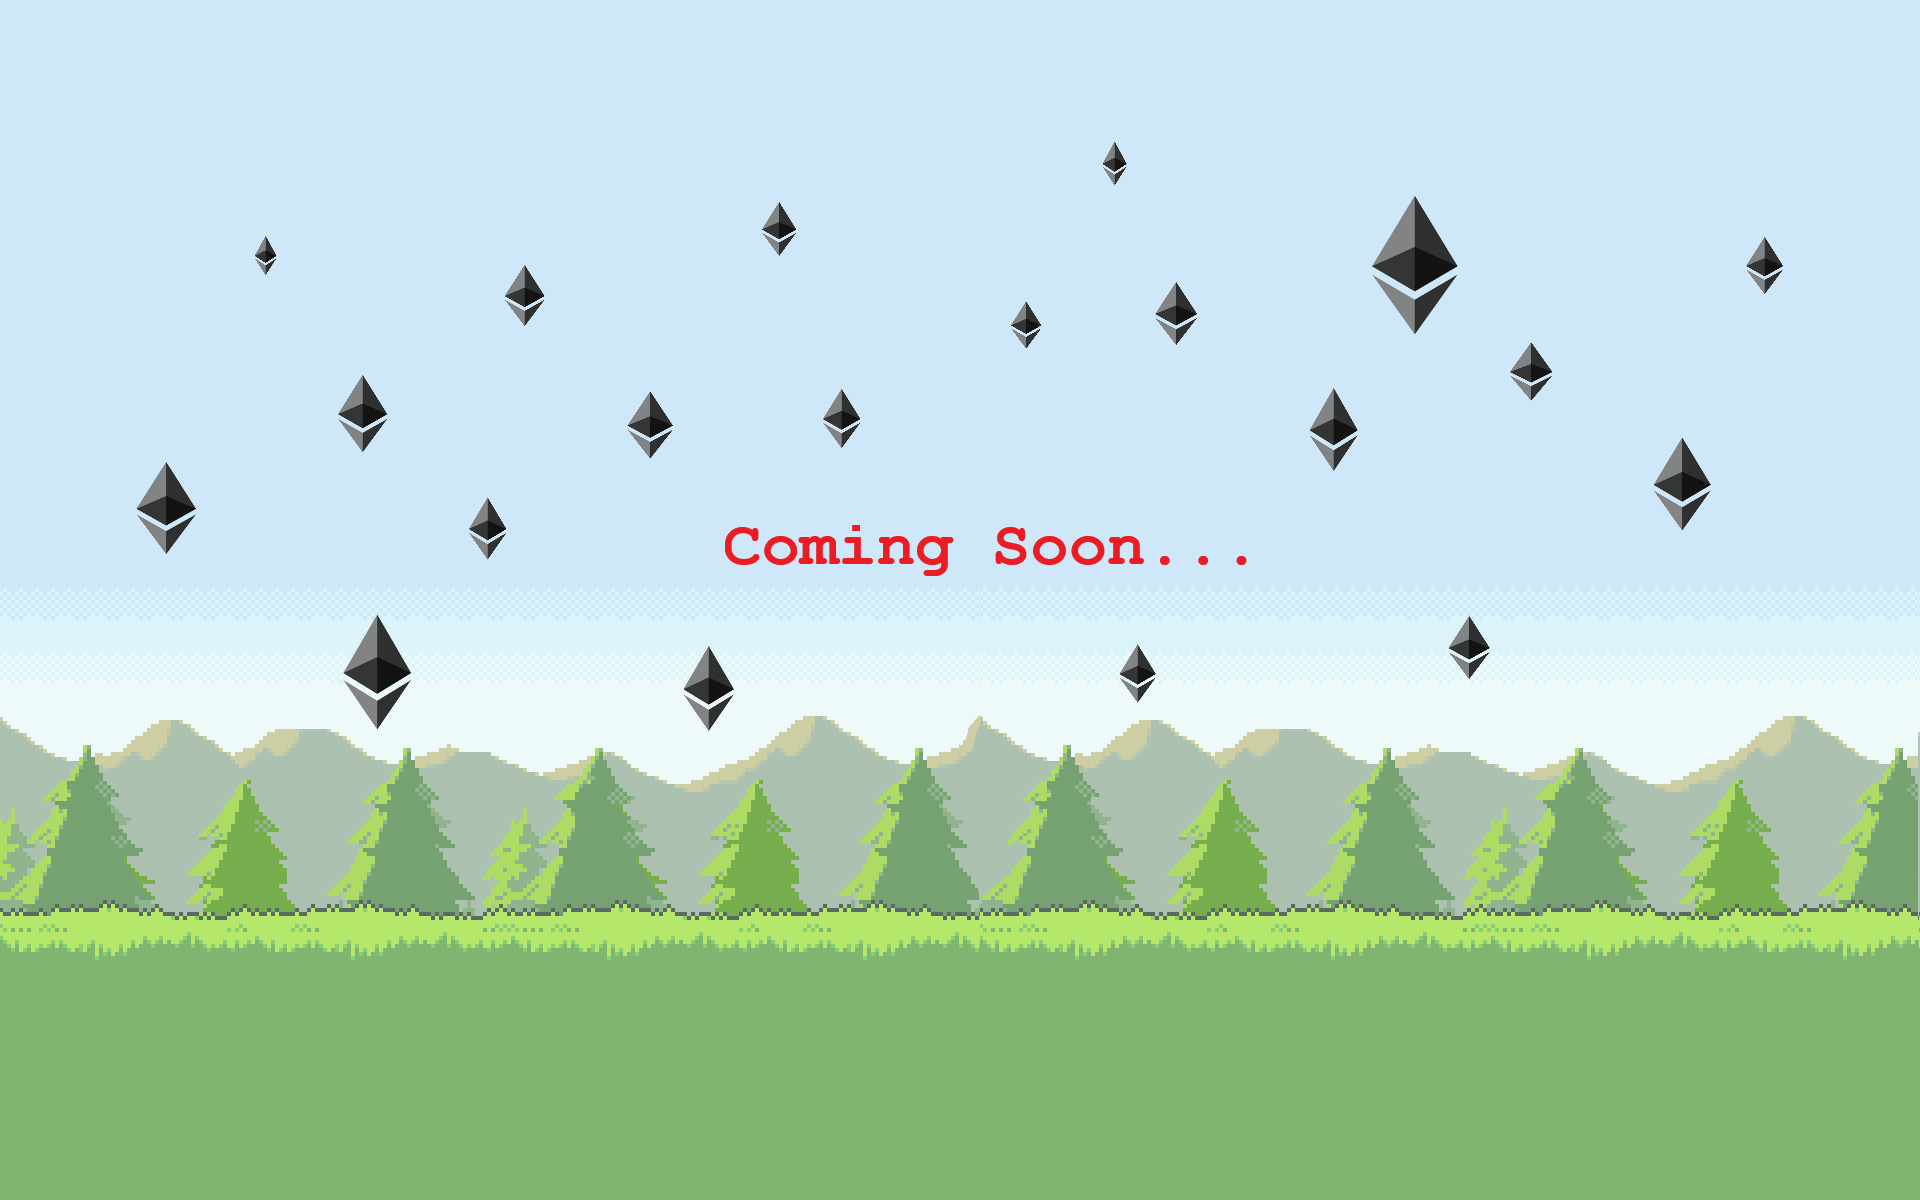
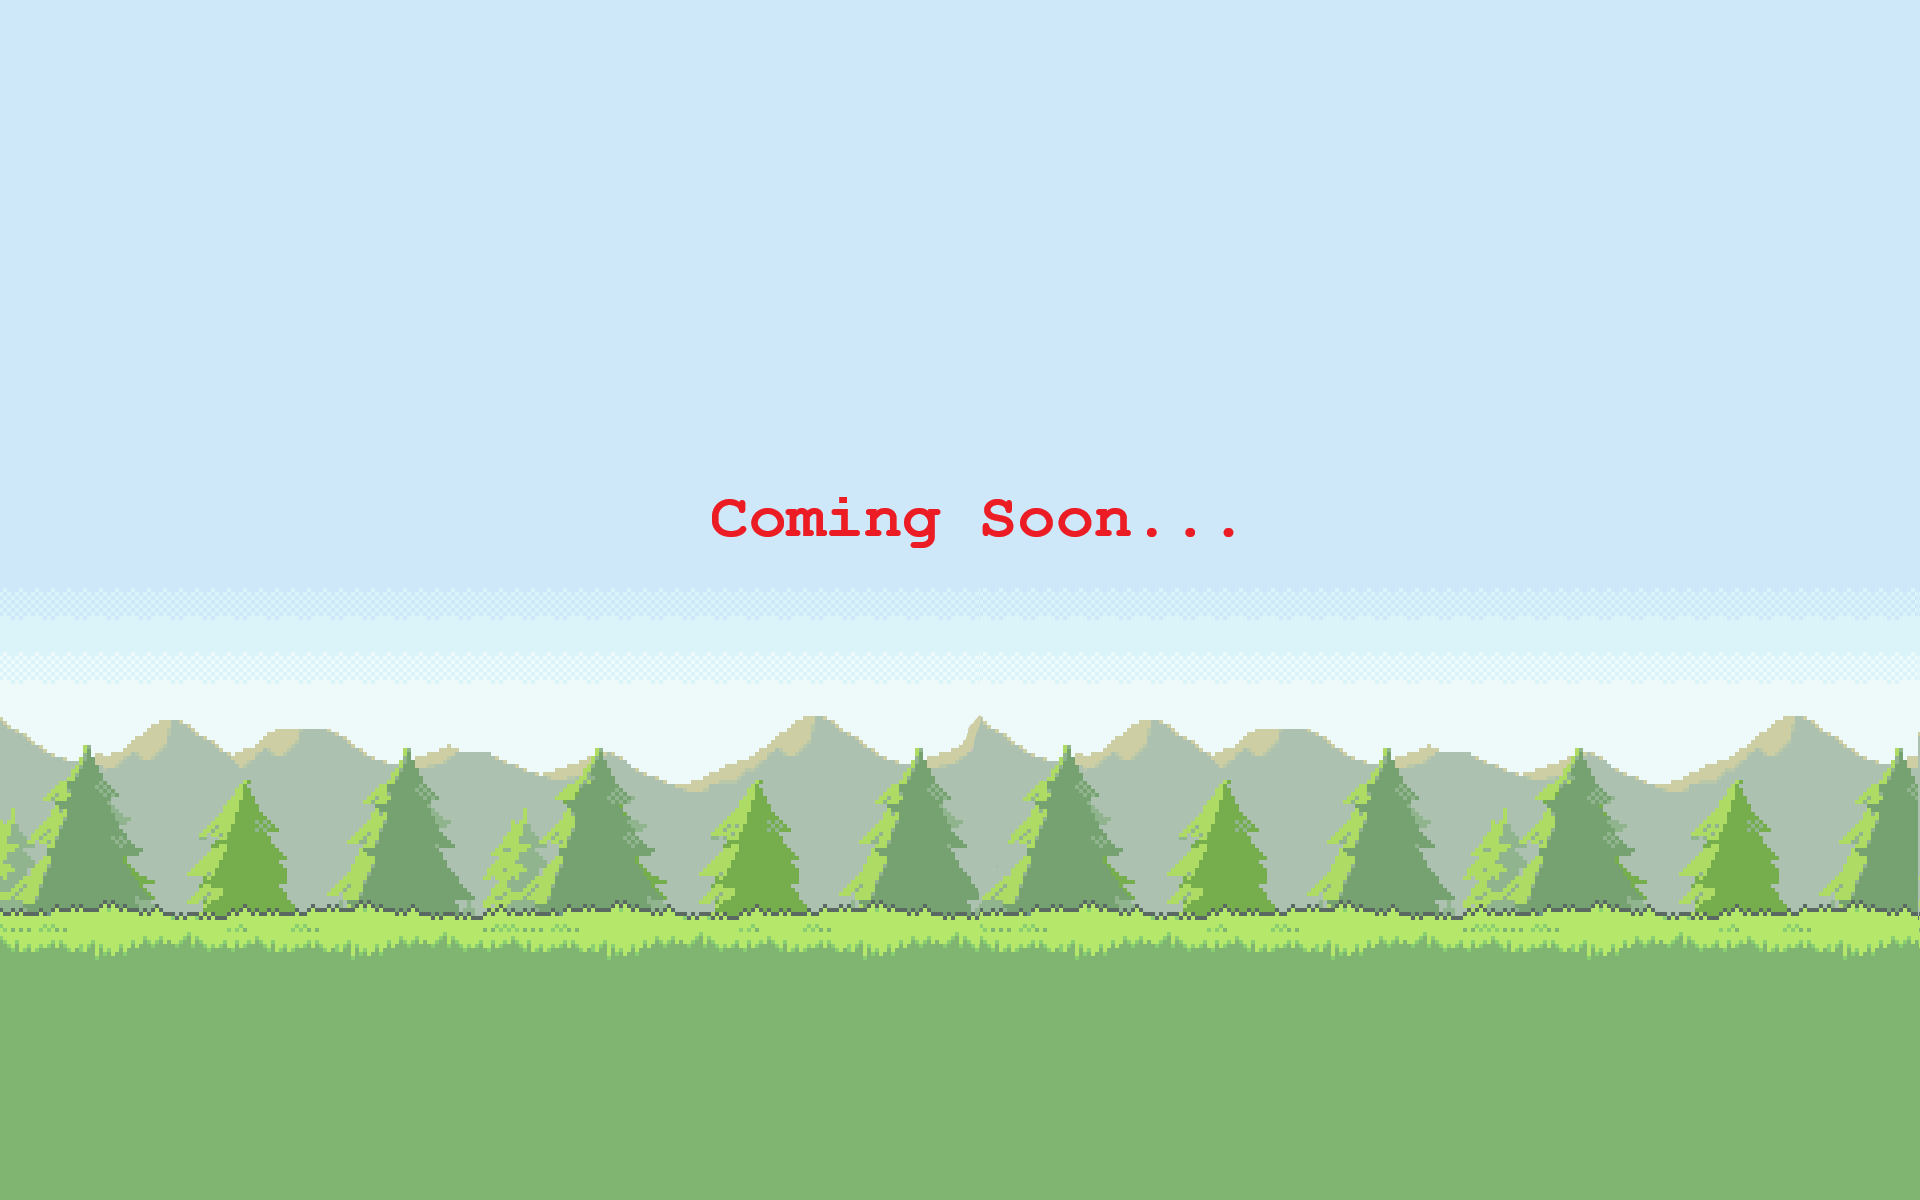
Update bg

diff --git a/src/app/app.component.scss b/src/app/app.component.scss
@@ -1,5 +1,5 @@
 .bg {
-    background-image: url('../assets/Images/bg.png');
+    background-image: url('../assets/Images/coming_soon.png');
     background-position: center;
     background-repeat: no-repeat;
     background-size: cover;
